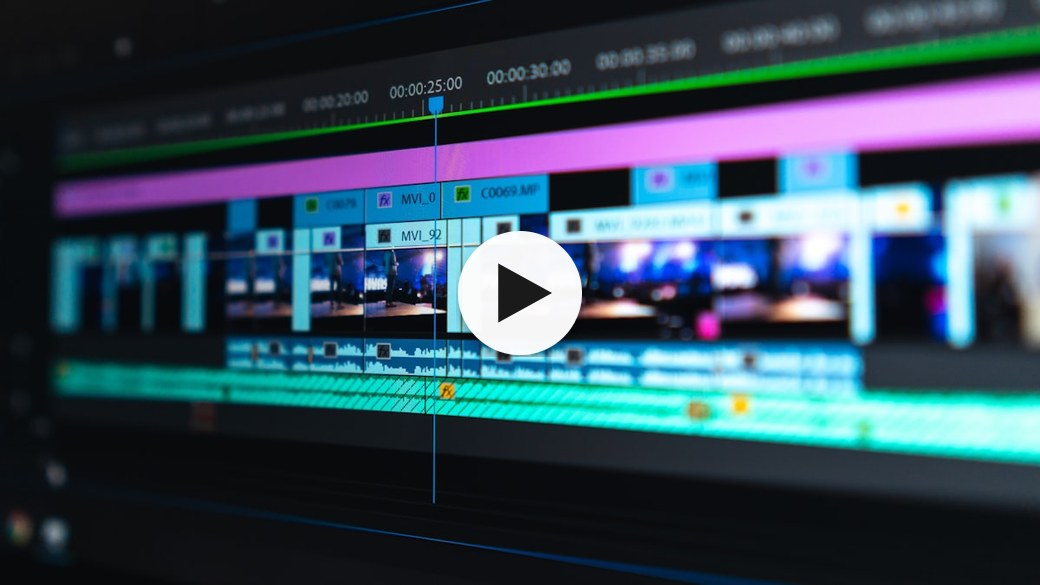
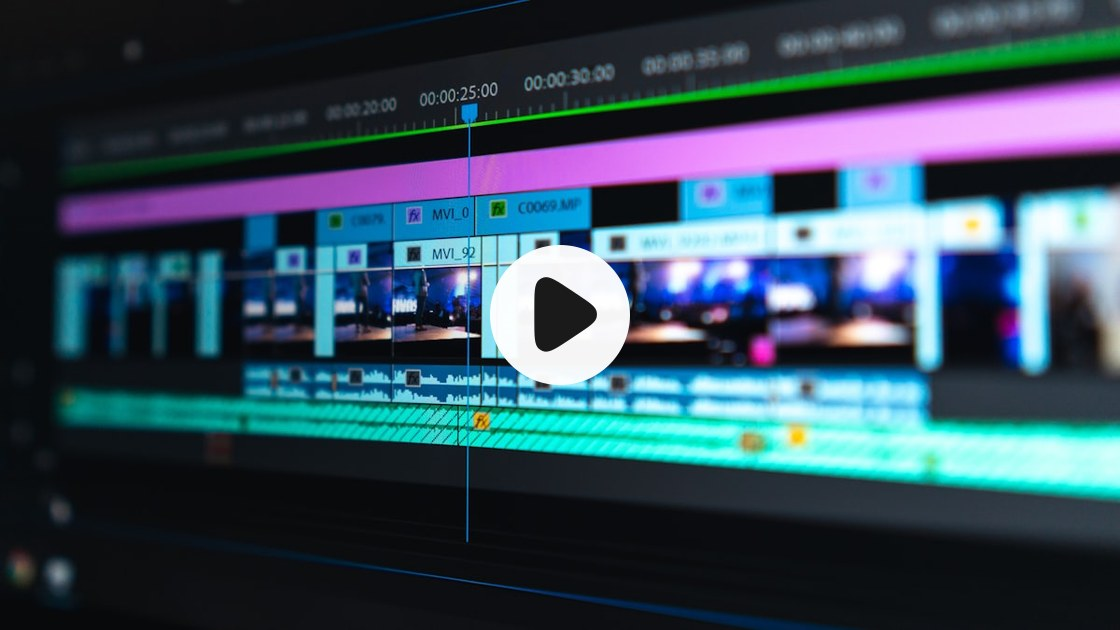
Email: rounded play triangle via nested SVG, retina static composites
The previous build-clip-composites used chained transforms
(translate→scale→translate) which librsvg renders incorrectly,
producing a generic sharp triangle instead of the actual rounded
path from VideoPlayer.tsx.

Switched to a nested-SVG approach with the path's native viewBox
`-1 0 16 18`. Now renders the exact submissions-page play icon.

Also dropped the animated GIF (Giphy URL was dead, returning a
"CONTENT NOT AVAILABLE" placeholder). Static composites at 2x retina
until Phase 2 wires real Cloudflare Stream animated.gif endpoints.

Changed region(s): [[0.4308, 0.3692, 0.5846, 0.5846], [0.4615, 0.5538, 0.5538, 0.6154]]

diff --git a/scripts/build-clip-composites.ts b/scripts/build-clip-composites.ts
@@ -36,32 +36,19 @@ const PLAY_ICON_PATH =
   "M8.50388 2.93386C5.11288 0.673856 3.41688 -0.457144 2.03088 -0.0661441C1.59618 0.0567154 1.19326 0.272331 0.849883 0.565856C-0.245117 1.50186 -0.245117 3.53986 -0.245117 7.61586V10.0999C-0.245117 14.1759 -0.245117 16.2139 0.849883 17.1499C1.19313 17.4428 1.59566 17.658 2.02988 17.7809C3.41688 18.1729 5.11188 17.0429 8.50388 14.7829L10.3659 13.5409C13.1659 11.6739 14.5659 10.7409 14.8199 9.46886C14.8999 9.06613 14.8999 8.65159 14.8199 8.24886C14.5669 6.97686 13.1669 6.04286 10.3669 4.17586L8.50388 2.93386Z";
 
 function buildPlayBadgeSvg(circleSize: number): string {
-  // Path is in a 16-wide × 18-tall coord system (viewBox `-1 0 16 18`).
-  // Render the icon at ~42% of circle diameter, optically centered.
-  const targetIconWidth = circleSize * 0.42;
-  const scale = targetIconWidth / 16;
-  const iconWidth = 16 * scale;
-  const iconHeight = 18 * scale;
-  // Optical center: shift right slightly so the triangle's mass looks centered.
-  const x = (circleSize - iconWidth) / 2 + circleSize * 0.025;
-  const y = (circleSize - iconHeight) / 2;
-  const shadowBlur = circleSize * 0.04;
-  const shadowOffsetY = circleSize * 0.06;
+  // Render the play icon via NESTED SVG with its native viewBox `-1 0 16 18`.
+  // Nested-SVG + viewBox is more reliable than chained transforms in librsvg.
+  const iconWidth = circleSize * 0.46;
+  const iconHeight = iconWidth * (18 / 16);
+  // Optical center — shift right so triangle's mass is centered.
+  const iconX = (circleSize - iconWidth) / 2 + circleSize * 0.03;
+  const iconY = (circleSize - iconHeight) / 2;
 
   return `<svg xmlns="http://www.w3.org/2000/svg" width="${circleSize}" height="${circleSize}" viewBox="0 0 ${circleSize} ${circleSize}">
-    <defs>
-      <filter id="shadow" x="-30%" y="-30%" width="160%" height="160%">
-        <feGaussianBlur stdDeviation="${shadowBlur}" />
-        <feOffset dx="0" dy="${shadowOffsetY}" result="offsetblur"/>
-        <feFlood flood-color="#000" flood-opacity="0.35"/>
-        <feComposite in2="offsetblur" operator="in"/>
-        <feMerge><feMergeNode/><feMergeNode in="SourceGraphic"/></feMerge>
-      </filter>
-    </defs>
-    <circle cx="${circleSize / 2}" cy="${circleSize / 2}" r="${circleSize / 2 - 2}" fill="#FFFFFF" fill-opacity="0.96" filter="url(#shadow)"/>
-    <g transform="translate(${x} ${y}) scale(${scale}) translate(1 0)">
+    <circle cx="${circleSize / 2}" cy="${circleSize / 2}" r="${circleSize / 2 - 2}" fill="#FFFFFF" fill-opacity="0.96"/>
+    <svg x="${iconX}" y="${iconY}" width="${iconWidth}" height="${iconHeight}" viewBox="-1 0 16 18">
       <path d="${PLAY_ICON_PATH}" fill="#1A1A1A"/>
-    </g>
+    </svg>
   </svg>`;
 }
 
@@ -71,13 +58,14 @@ async function main() {
 
   const jobs: Job[] = [
     {
-      filename: "featured.gif",
-      sourceUrl: data.featured_clip.thumbnail_gif_url ?? data.featured_clip.thumbnail_url,
-      // Animated GIFs balloon if upscaled 2× — keep at display size.
-      width: 560,
-      height: 315,
-      playSize: 80,
-      animated: true,
+      // Static composite for now. Animation comes back automatically in
+      // Phase 2 when we wire Cloudflare Stream's animated.gif endpoint.
+      filename: "featured.jpg",
+      sourceUrl: data.featured_clip.thumbnail_url,
+      width: 1120, // 2× of 560 — retina sharpness
+      height: 630, // 2× of 315
+      playSize: 144, // 2× of 72
+      animated: false,
     },
     ...data.more_clips.map((c: { id: string; thumbnail_url: string }) => ({
       filename: `${c.id}.jpg`,
